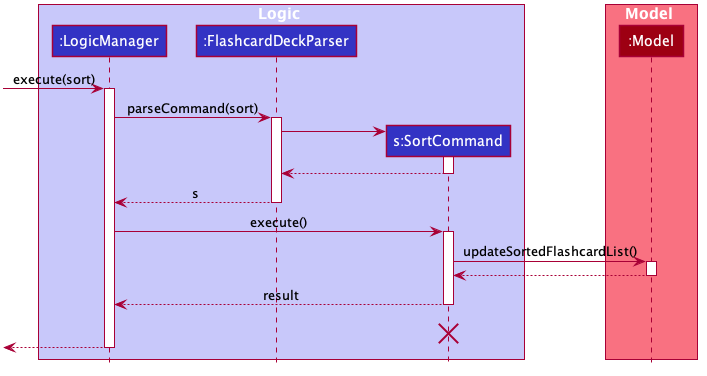
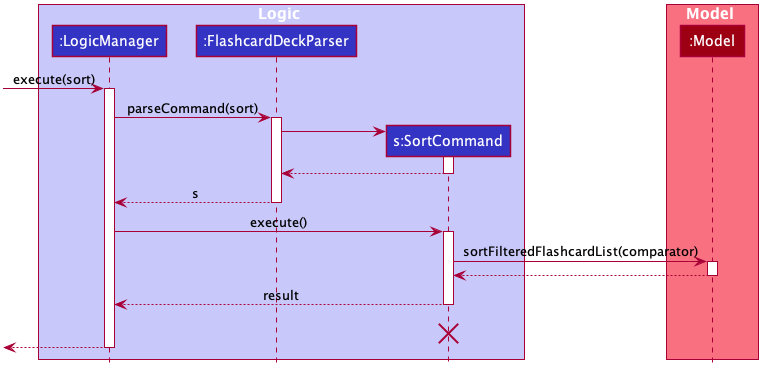
Update UG and DG for sort

diff --git a/docs/DeveloperGuide.md b/docs/DeveloperGuide.md
@@ -290,33 +290,25 @@ The following activity diagram summarises the control path in review mode set up
   * Pros: Allows for better abstraction through separation of UI and logic.
   * Cons: Poorer user experience as reviewing will be slow since user has to type in command one by one.
 
-### \[Proposed\] Sort feature
+### \[Implemented\] Sort feature
 
-#### Proposed Implementation
+#### Current Implementation
 
-The proposed sort mechanism is facilitated by `ModelManager`. `reviewFrequency` and `successRate` attributes is stored internally in `Flashcard`, to keep track of review frequency and correctness percentage respectively based on the review activity done by the user. When the user enters review mode, the user activity will be tracked and the data will be sent and stored inside the individual `Flashcard`. This activity will then be used to facilitate the sort mechanism. 
+The sort mechanism is facilitated by `ModelManager`. `Statistics` attribute is stored internally in `Flashcard`, to keep track of review frequency and correctness percentage respectively based on the review activity done by the user. When the user enters review mode, the user activity will be tracked and the data will be sent and stored inside `Statistics` of the individual `Flashcard`. This activity will then be used to facilitate the sort mechanism, through the enum `SortCriteria` which provides the comparator needed for the respective sort critera.
 
 It implements the following operations:
-* `ModelManager#updateSortedFlashcardList(Comparator <Flashcard>)` - sorts the flashcard list according to a given condition, and updates the flashcard list shown.
-* `Flashcard#incrementReviewFrequency()` - increases the review frequency of a flashcard.
-* `Flashcard#incrementSuccessRate()` - increases the success rate of a flashcard.
-* `Flashcard#decrementSuccessRate()` - decreases the success rate of a flashcard.
+* `ModelManager#sortFilteredFlashcardList(Comparator <Flashcard> comparator)` - sorts the flashcard list according to the given comparator, and updates the flashcard list shown.
+* `SortCriteria#getCriteria(String criteria)` - retrieves the enum according to the criteria given.
 
-The `ModelManager#updateSortedFlashcardList(Comparator<Flashcard>)` operation is exposed in the `Model` interface as `Model#updateSortedFlashcardList(Comparator <Flashcard>)`.
+The `ModelManager#sortFilteredFlashcardList(Comparator<Flashcard> comparator)` operation is exposed in the `Model` interface as `Model#updateSortedFlashcardList(Comparator <Flashcard> comparator)`.
 
 Given below is an example usage scenario and how the sort mechanism behaves at each step.
 
 Step 1. The user launches the application.
 
-![SortState0](images/SortState0.png)
+Step 2. The user executes `review` command to review the flashcard deck. The user reviews 3 out of 5 flashcards and exits review mode. The review command calls `Statistics#incrementReviewFrequency()` for each flashcard that has been reviewed and `Statistics#incrementSuccessFrequency()` depending on whether the user successfully answers the question, hence updating the state of the flashcard.
 
-Step 2. The user executes `review` command to review the flashcard deck. The user reviews 3 out of 5 flashcards and exits review mode. The review command calls `Flashcard#incrementReviewFrequency()` for each flashcard that has been reviewed and `Flashcard#incrementSuccessRate()` or `Flashcard#decrementSuccessRate()` depending on whether the user successfully answers the question.
-
-![SortState1](images/SortState1.png)
-
-Step 3. The user executes `sort leastReviewed`. The `sort` command calls `Model#updateSortedFlashcardList`, causing the flashcards to be sorted by review frequency, in ascending order.
-
-![SortState2](images/SortState2.png)
+Step 3. The user executes `sort reviewed -d`. The command gets parsed to retrieve the appropriate `SortCriteria`. The `sort` command calls `Model#sortFilteredFlashcardList` with this `SortCriteria`, causing the flashcards to be sorted by review frequency, in descending order.
 
 The following sequence diagram shows how the sort operation works:
 

diff --git a/docs/UserGuide.md b/docs/UserGuide.md
@@ -11,8 +11,10 @@ SWEe! is a  **desktop app for CS2103T students to manage their learning progress
     - Features
         - Adding a flashcard: `add`
         - Deleting a flashcard: `delete`
+        - Editing a flashcard: `edit`
         - Listing all flashcards: `list`
         - Review all flashcards : `review`
+        - Sort all flashcards: `sort`
         - Favourite a flashcard : `fav`
         - Unfavourite a flashcard: `unfav`
         - Exiting the program: `exit`
@@ -45,6 +47,8 @@ SWEe! is a  **desktop app for CS2103T students to manage their learning progress
 
    * **`review`** : Reviews the current list of flashcards.
    
+   * **`sort reviewed -d`** : Sorts the list of flashcards according to review frequency in descending order.
+   
    * **`fav 1`** : Favourite the 1st flashcard in the current list.
       
    * **`unfav 1`** : Unfavourite the 1st flashcard in the current list.
@@ -72,6 +76,9 @@ SWEe! is a  **desktop app for CS2103T students to manage their learning progress
 
 * Parameters can be in any order.<br>
   e.g. if the command specifies `q/QUESTION a/ANSWER, a/ANSWER q/QUESTION` is also acceptable.
+  
+* Items in angle brackets are either/or options. Each option is delineated by a | . 
+  e.g <success|reviewed> can be used as success or reviewed but not both.
 
 </div>
 
@@ -159,6 +166,19 @@ Examples:
     - `[left key]` returns the previous flashcard
     - `q` quits review mode
     
+### Sort all flashcards : `sort`
+
+Sorts a list of all flashcards according to the criteria given.
+
+Format: `sort <success|reviewed> <-a|-d>`
+
+Examples: 
+* sort followed by:
+    - `reviewed -a` shows a list of all flashcards sorted according to review frequency in ascending order
+    - `reviewed -d` shows a list of all flashcards sorted according to review frequency in descending order
+    - `success -a` shows a list of all flashcards sorted according to success rate in ascending order
+    - `success -d` shows a list of all flashcards sorted according to success rate in descending order
+    
 ### Favourite a flashcard  : `fav`
 
 Favourites the specified flashcard.
@@ -212,6 +232,7 @@ Action | Format, Examples
 **Edit** | `edit INDEX [q/QUESTION] [a/ANSWER] [c/CATEGORY] [n/NOTE] [r/RATING] [d/DIAGRAM]` <br> e.g., `edit 3 q/What does OOP stand for? a/Object Oriented Programming`
 **List** | `list`
 **Review** | `review`
+**Sort** | `sort <success&#124;reviewed> <-a&#124;-d>` <br> e.g. sort success -a
 **Fav** | `fav INDEX` <br> e.g., `fav 1`
 **Unfav** | `unfav INDEX` <br> e.g., `unfav 1`
 **View** | `view INDEX` <br> e.g., `view 1`
